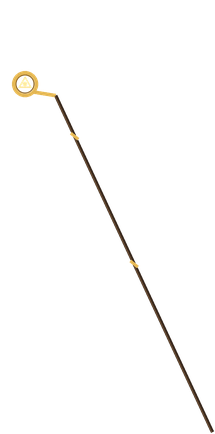
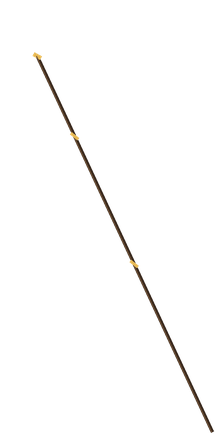
ネクロバインダー版：腕・脚を太く、頭にフード、杖頭に大きな錬成陣（骨に自前の絵を載せる）

Changed region(s): [[0.0558, 0.1198, 0.2791, 0.2396]]

diff --git a/src/Alchemy/NecroRig.cs b/src/Alchemy/NecroRig.cs
@@ -17,7 +17,7 @@ public static class NecroRig
 {
     public enum RigDonor { Necrobinder, Silent }
     /// The donor in use. A trial choice between the two (2026-10-01).
-    public static RigDonor Donor { get; set; } = RigDonor.Silent;
+    public static RigDonor Donor { get; set; } = RigDonor.Necrobinder;
     private static string DonorName => Donor.ToString().ToLowerInvariant();
     private static readonly Dictionary<RigDonor, GodotObject> built = [];
     private static bool failed;
@@ -98,7 +98,11 @@ public static class NecroRig
             var visuals = scene.Instantiate<NCreatureVisuals>(PackedScene.GenEditState.Disabled);
             var spine = visuals.GetNode("Visuals");
             var original = spine.Get("skeleton_data_res").AsGodotObject();
-            if (Build(original) is { } data) spine.Set("skeleton_data_res", data);
+            if (Build(original) is { } data)
+            {
+                spine.Set("skeleton_data_res", data);
+                Attach((Node2D)spine);
+            }
             Flames(visuals);
             return visuals;
         }
@@ -138,9 +142,78 @@ public static class NecroRig
         data.Set("atlas_res", newAtlas);
         data.Set("default_mix", original.Get("default_mix"));
         data.Set("animation_mixes", original.Get("animation_mixes"));
+        Reshape(data);
         if (!data.Call("is_skeleton_data_loaded").AsBool()) throw new InvalidOperationException("skeleton data did not load");
         GD.Print($"[Alchemy] {DonorName} rig repainted ({pages.Sum(p => p.Regions.Count)} parts)");
         return built[Donor] = data;
+    }
+
+    /// Bone proportions (setup pose scale, multiplied), so the Necrobinder's bone-thin limbs read as an alchemist's.
+    /// Scale Y is across the bone: thicker. Animations key scale relative to the setup pose, so they keep it.
+    public static readonly Dictionary<string, Vector2> Proportions = new()
+    {
+        ["arm_l_upper"] = new(1f, 1.6f), ["arm_l_lower"] = new(1f, 1.5f),
+        ["arm_r_upper"] = new(1f, 1.6f), ["arm_r_lower"] = new(1f, 1.5f),
+        ["leg_l_upper"] = new(1f, 1.5f), ["leg_l_lower"] = new(1f, 1.4f),
+        ["leg_r_upper"] = new(1f, 1.5f), ["leg_r_lower"] = new(1f, 1.4f),
+        // Scale is inherited: the sleeves hanging from the upper arms and the feet are scaled back.
+        ["sleeve_l_follow"] = new(1f, 1 / 1.6f), ["sleeve_r_base"] = new(1f, 1 / 1.6f),
+        ["foot_l"] = new(1f, 1 / 1.4f), ["foot_r"] = new(1f, 1 / 1.4f),
+    };
+
+    private static void Reshape(GodotObject data)
+    {
+        if (Donor != RigDonor.Necrobinder) return;
+        foreach (var (name, scale) in Proportions)
+        {
+            if (data.Call("find_bone", name).AsGodotObject() is not { } bone) { GD.PushWarning($"[Alchemy] no bone {name}"); continue; }
+            bone.Call("set_scale_x", bone.Call("get_scale_x").AsSingle() * scale.X);
+            bone.Call("set_scale_y", bone.Call("get_scale_y").AsSingle() * scale.Y);
+        }
+    }
+
+    /// The mod's own pictures riding on the rig: each sits in a SpineSlotNode, which follows the slot's bone and is
+    /// drawn at the slot's place in the draw order (the way the scene itself hangs its fire and slash on bones).
+    /// Position and rotation are in the bone's own space; Scale is applied to the picture.
+    /// OnlyWith: shown only while the slot shows that attachment (the staff head goes with the scythe part, which
+    /// the animations swap out, e.g. while it dissolves on death).
+    public sealed record Rider(string Slot, string File, Vector2 Position, float Rotation, float Scale, string? OnlyWith = null);
+    /// Trial placements (2026-10-01), measured with scripts/rig-probe.ps1 -Riders.
+    public static readonly List<Rider> Riders =
+    [
+        new("head", "hood.png", new(15, -30), 90, 1.2f),
+        new("scythe", "staff_head.png", new(650, -90), 0, 1.3f, OnlyWith: "scythe"),
+    ];
+
+    private static void Attach(Node2D spine)
+    {
+        var gated = new List<(Sprite2D Sprite, string Slot, string Attachment)>();
+        foreach (var rider in Riders.Where(r => Donor == RigDonor.Necrobinder))
+        {
+            string path = Path.Combine(RigArtDirectory, rider.File);
+            if (!File.Exists(path) || Image.LoadFromFile(path) is not { } image || image.IsEmpty()) continue;
+            var slotNode = (Node2D)ClassDB.Instantiate("SpineSlotNode");
+            slotNode.Name = "Alchemist_" + Path.GetFileNameWithoutExtension(rider.File);
+            slotNode.Set("slot_name", rider.Slot);
+            var sprite = new Sprite2D
+            {
+                Texture = ImageTexture.CreateFromImage(image), Position = rider.Position,
+                RotationDegrees = rider.Rotation, Scale = Vector2.One * rider.Scale,
+            };
+            slotNode.AddChild(sprite);
+            spine.AddChild(slotNode);
+            if (rider.OnlyWith is { } attachment) gated.Add((sprite, rider.Slot, attachment));
+        }
+        if (gated.Count == 0) return;
+        spine.Connect("world_transforms_changed", Callable.From((Variant _) =>
+        {
+            if (spine.Call("get_skeleton").AsGodotObject() is not { } skeleton) return;
+            foreach (var (sprite, slot, attachment) in gated)
+            {
+                var current = skeleton.Call("find_slot", slot).AsGodotObject()?.Call("get_attachment").AsGodotObject();
+                sprite.Visible = current?.Call("get_attachment_name").AsString() == attachment;
+            }
+        }));
     }
 
     /// The atlas text is not a property of SpineAtlasResource; the imported resource it came from is JSON with it.

diff --git a/scripts/rig-art.py b/scripts/rig-art.py
@@ -29,7 +29,7 @@ def save(im, name):
     im.resize((im.width // S, im.height // S), Image.LANCZOS).save(OUT / f"{name}.png")
 
 
-def staff(name, size, x0, y0, slope, ring_at, ring, bottom_y, dark=False):
+def staff(name, size, x0, y0, slope, ring_at, ring, bottom_y, dark=False, head=True):
     """The pole on the scythe's pole line, joined to a brass ring that sits in the blade's thick heel. The game draws
     the part as a mesh shaped like the scythe, so everything must stay inside that outline (measured upright: the
     heel spans about x 6-40 at y 64-104 on the 215x434 part); the crescent tip is left empty."""
@@ -43,12 +43,21 @@ def staff(name, size, x0, y0, slope, ring_at, ring, bottom_y, dark=False):
     cx, cy, r = ring_at[0] * S, ring_at[1] * S, ring * S
     shade = (10, 8, 6, 255)
     d.line([a, b], fill=shade if dark else WOOD, width=int(width))
-    d.line([(cx + r * 0.6, cy + r * 0.6), a], fill=shade if dark else GOLD, width=int(width * 1.1))  # the collar
+    if not head:  # the big ring rides on the bone instead (staff_head); the pole runs on to the top of the heel
+        top = (px(56), 56 * S)
+        d.line([top, a], fill=WOOD, width=int(width))
+        d.line([(top[0] - width, top[1] - 2 * S), (top[0] + width, top[1] + 2 * S)], fill=GOLD, width=int(width * 1.2))
+        a = top
+    else:
+        d.line([(cx + r * 0.6, cy + r * 0.6), a], fill=shade if dark else GOLD, width=int(width * 1.1))  # the collar
     if not dark:
         d.line([(a[0] - width * 0.25, a[1]), (b[0] - width * 0.25, b[1])], fill=WOOD_HI, width=max(1, int(width * 0.3)))
         for t in (0.12, 0.5):  # brass bands on the pole
             y = pole_top + (bottom_y - pole_top) * t
             d.line([(px(y) - width, (y - 3) * S), (px(y) + width, (y + 3) * S)], fill=GOLD, width=int(width * 0.9))
+    if not head:
+        save(im, name)
+        return
     d.ellipse([cx - r, cy - r, cx + r, cy + r], outline=shade if dark else GOLD, width=int(max(2, ring / 3.5) * S))
     if not dark:
         d.ellipse([cx - r * 0.72, cy - r * 0.72, cx + r * 0.72, cy + r * 0.72], outline=GOLD_LO, width=S)
@@ -58,7 +67,7 @@ def staff(name, size, x0, y0, slope, ring_at, ring, bottom_y, dark=False):
     save(im, name)
 
 
-staff("scythe", (215, 434), 67, 120, 0.4661, (25, 84), 13, 432)
+staff("scythe", (215, 434), 67, 120, 0.4661, (25, 84), 13, 432, head=False)
 staff("sythe_dissolve", (213, 432), 65, 120, 0.466, (25, 84), 13, 430, dark=True)
 staff("scythe_glow", (120, 229), 64.5, 120, 0.475, (14, 45), 7, 228, dark=True)
 
@@ -103,6 +112,43 @@ def band(name, size, left, right, marks_y, mark=4.2):
 
 sigil("head", (47, 50), (30, 24), 9.5)
 band("skirt_flap", (25, 127), 6, 19, (22, 46, 70, 94))
+
+def hood(name, w=200, h=230):
+    """The key visual's hood for the Necrobinder rig, drawn upright (peak up and back, opening facing right). It
+    rides on the head bone in front of the head; the opening is left empty so the dark face and its sigil show."""
+    im = canvas(w, h)
+    d = ImageDraw.Draw(im)
+    P = lambda pts: [(x * S, y * S) for x, y in pts]
+    outline = [(70, 8), (40, 40), (22, 90), (18, 140), (30, 190), (60, 222), (120, 228), (170, 212), (188, 180),
+               (178, 150), (160, 128), (150, 96), (140, 60), (115, 30)]
+    d.polygon(P(outline), fill=(30, 29, 35, 255))
+    d.polygon(P([(70, 8), (40, 40), (26, 92), (24, 140), (40, 170), (60, 120), (70, 70)]), fill=(20, 19, 24, 255))  # shade
+    d.polygon(P([(130, 205), (170, 212), (188, 180), (178, 150), (150, 180)]), fill=(46, 44, 52, 255))  # light fold
+    opening = [118, 92, 186, 178]
+    d.ellipse([v * S for v in opening], fill=(0, 0, 0, 0))
+    d.arc([v * S for v in (114, 88, 190, 182)], 0, 360, fill=GOLD, width=int(3 * S))
+    d.line(P([(60, 222), (120, 228), (170, 212)]), fill=GOLD, width=int(3 * S))
+    save(im, name)
+
+
+def ring_head(name, size=120):
+    """A big brass sigil ring for the staff head (rides on the scythe bone, outside the scythe's own outline)."""
+    im = canvas(size, size)
+    d = ImageDraw.Draw(im)
+    c, r = size / 2 * S, size * 0.42 * S
+    d.ellipse([c - r, c - r, c + r, c + r], outline=GOLD, width=int(size / 14 * S))
+    d.ellipse([c - r * 0.8, c - r * 0.8, c + r * 0.8, c + r * 0.8], outline=GOLD_LO, width=int(size / 60 * S))
+    tri = [(c + r * 0.7 * math.cos(math.radians(a)), c + r * 0.7 * math.sin(math.radians(a))) for a in (-90, 30, 150)]
+    d.polygon(tri, outline=GOLD_HI, width=int(size / 30 * S))
+    d.ellipse([c - r * 0.16, c - r * 0.16, c + r * 0.16, c + r * 0.16], fill=GOLD_HI)
+    for a in range(0, 360, 45):
+        x, y = math.cos(math.radians(a)), math.sin(math.radians(a))
+        d.line([(c + x * r * 1.05, c + y * r * 1.05), (c + x * r * 1.18, c + y * r * 1.18)], fill=GOLD_HI, width=int(size / 40 * S))
+    save(im, name)
+
+
+hood("hood")
+ring_head("staff_head")
 
 # The Silent (2026-10-01 trial): the face is the dark right half of its head part; the band on the hanging cloth.
 OUT = BASE / "silent"

diff --git a/tests/Alchemy.RigProbe/Probe.cs b/tests/Alchemy.RigProbe/Probe.cs
@@ -22,7 +22,7 @@ public static class RigProbe
     [HarmonyPatch(typeof(OneTimeInitialization), nameof(OneTimeInitialization.ExecuteDeferred))]
     public static class Ready
     {
-        public static void Postfix() => Callable.From(() => _ = Run()).CallDeferred();
+        public static void Postfix() => Callable.From(() => { _ = Run(); }).CallDeferred();
     }
 
     private static async Task Run()
@@ -39,6 +39,16 @@ public static class RigProbe
             tree.Root.AddChild(viewport);
             string mode = System.Environment.GetEnvironmentVariable("ALCHEMY_PROBE_MODE") ?? "";
             // ALCHEMY_PROBE_RIG picks the rig donor (necrobinder / silent) for side-by-side comparisons.
+            // ALCHEMY_PROBE_RIDERS: "slot,file,x,y,rotation,scale;..." to try pictures on the rig without rebuilding.
+            if (System.Environment.GetEnvironmentVariable("ALCHEMY_PROBE_RIDERS") is { Length: > 0 } riders)
+            {
+                Alchemy.NecroRig.Riders.Clear();
+                foreach (var spec in riders.Split(';', StringSplitOptions.RemoveEmptyEntries))
+                {
+                    var f = spec.Split(',');
+                    Alchemy.NecroRig.Riders.Add(new(f[0], f[1], new Vector2(float.Parse(f[2]), float.Parse(f[3])), float.Parse(f[4]), float.Parse(f[5])));
+                }
+            }
             if (System.Environment.GetEnvironmentVariable("ALCHEMY_PROBE_RIG") is { Length: > 0 } rigName)
                 Alchemy.NecroRig.Donor = Enum.Parse<Alchemy.NecroRig.RigDonor>(rigName, ignoreCase: true);
             // "alchemist": the alchemist's own visuals, made the way combat makes them (CharacterModel.CreateVisuals).
@@ -59,7 +69,23 @@ public static class RigProbe
             Log("data props: " + string.Join(",", data.GetPropertyList().Select(p => (string)p["name"])));
             Log("animations: " + string.Join(",", new MegaSkeletonDataResource(data).GetAnimationNames()));
 
-            if (mode == "alchemist")
+            if (mode == "api")
+            {
+                foreach (var cls in ClassDB.GetClassList().Where(c => c.StartsWith("Spine")).OrderBy(c => c))
+                    Log($"class {cls}: " + string.Join(",", ClassDB.ClassGetMethodList(cls, true).Select(m => (string)m["name"])));
+                foreach (var boneObj in data.Call("get_bones").AsGodotArray())
+                {
+                    var bone = boneObj.AsGodotObject();
+                    var parent = bone.Call("get_parent").AsGodotObject();
+                    Log($"bone {bone.Call("get_bone_name")} parent={parent?.Call("get_bone_name")} len={bone.Call("get_length")} sx={bone.Call("get_scale_x")} sy={bone.Call("get_scale_y")} x={bone.Call("get_x")} y={bone.Call("get_y")} rot={bone.Call("get_rotation")}");
+                }
+                foreach (var slotObj in data.Call("get_slots").AsGodotArray())
+                {
+                    var slot = slotObj.AsGodotObject();
+                    Log($"slot {slot.Call("get_name")} bone={slot.Call("get_bone_data").AsGodotObject()?.Call("get_bone_name")} attachment={slot.Call("get_attachment_name")}");
+                }
+            }
+            else if (mode == "alchemist")
             {
                 visuals.Scale = Vector2.One * 1.25f;
                 await Capture(tree, viewport, body, "alchemist", ["idle_loop", "attack", "hurt", Alchemy.NecroRig.CastAnimation, "die"]);

diff --git a/docs/session-log.md b/docs/session-log.md
@@ -19,6 +19,7 @@
 6. ブランチ`feature/select-bg`はmainへマージ・プッシュ済み（2026-10-01、c306ec7。途中まではGitHubのPR #7でマージ済みだった）。版は0.24.0のまま（リリース時に上げる）。
 
 ### やったこと
+- **ネクロバインダー版を作り込み**（2026-10-01、ユーザー：「ネクロ骨格でいろいろ出来ることやって近づけたい」）：借り先をネクロバインダーに戻し、腕・脚を太く、頭にフード、杖頭に大きな錬成陣（骨に自前の絵を載せる`Riders`）。反映済み。
 - **サイレントの骨格の転用を試作**（2026-10-01、ユーザー依頼）：`NecroRig.Donor`で切り替え。今はサイレントを既定にして反映。ネクロバインダーとの比較は`artifacts/rig-probe/compare-necro-silent.png`。**返答待ち：どちらを採用するか**。
 - **戦闘の体をネクロバインダーの骨格の転用に**（2026-10-01、ユーザー判断）：`NecroRig.cs`。動きはネクロバインダーそのもの、見た目は実行時に塗り替え＋自前の杖・錬成陣。確認は`scripts/rig-probe.ps1`（実際に描いたコマをPNGに保存して見る）。スモーク405件PASS、反映済み。休憩所・商人・キャラ選択とゴーレムはまだ。
 - **モーション・効果音**（2026-10-01、残課題の4番目）：被弾（後ろへ跳ねて赤く）・相転移（相の色で光る）・休憩所と商人の呼吸を追加（`SpriteMotion`・`RestMerchantArt`）。効果音はバニラのFMODイベントを流用（`AlchemySfx.cs`：相転移・炉・錬成・改造・付与・調薬）。スモーク405件PASS、反映済み（旧版`artifacts/backups/20261001-200011-134`）。

diff --git a/docs/test-results.md b/docs/test-results.md
@@ -1,5 +1,9 @@
 # テスト結果記録
 
+## 隔離実機スモーク（2026-10-01、ネクロバインダーの体型・フード・杖頭）
+
+- `scripts/smoke.ps1 -Name rig-necro2`：**405件PASS・FAIL 0**。見た目は`scripts/rig-probe.ps1 -Mode alchemist -Rig necrobinder`で全動作を確認（`artifacts/rig-probe/necro-v2-sheet.png`）。反映済み（旧版`artifacts/backups/20261001-233617-113`）。実際の戦闘画面は未確認。
+
 ## 隔離実機スモーク（2026-10-01、サイレントの骨格の転用）
 
 - `scripts/smoke.ps1 -Name rig-silent`：**405件PASS・FAIL 0**（骨格の借り先がサイレントで、塗り替えたアトラス`alchemy_rig/silent`が使われ、被弾でhurtが再生される）。見た目は`scripts/rig-probe.ps1 -Mode alchemist -Rig silent`で確認（`artifacts/rig-probe/silent-alch/sheet.png`）。反映済み。実際の戦闘画面は未確認。
